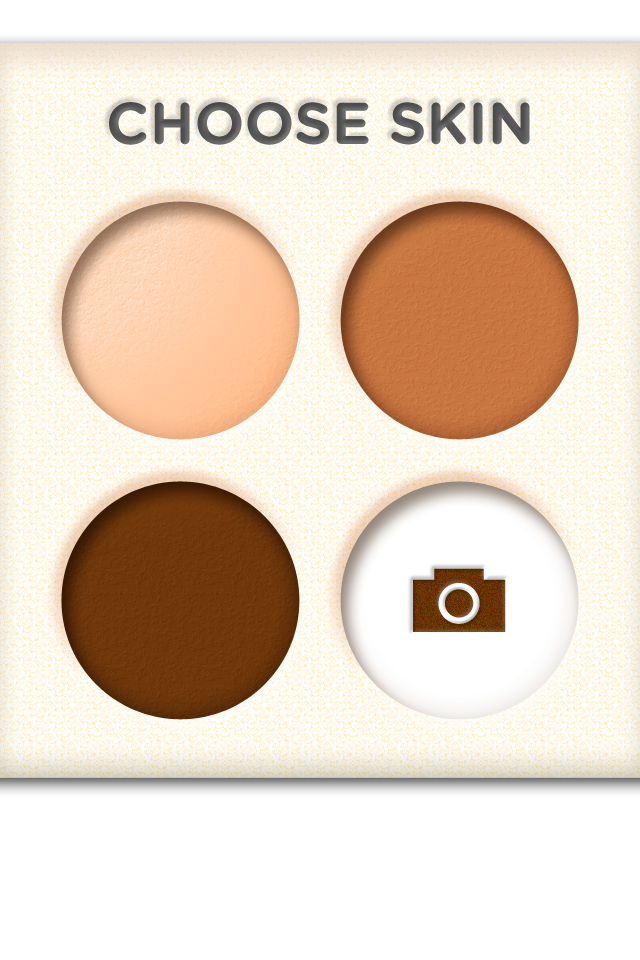
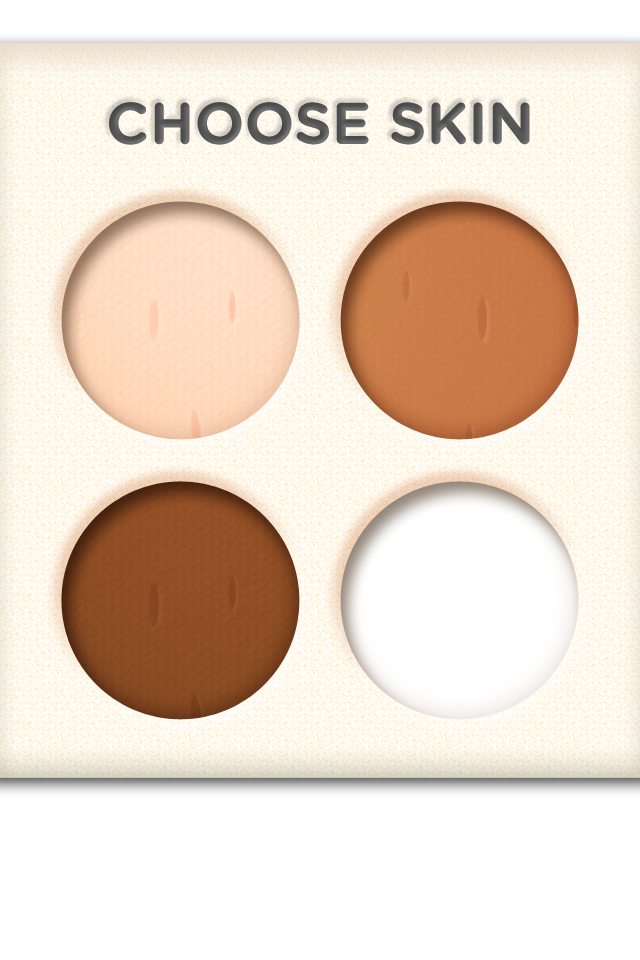
highlight skin color circles when tapped

Changed region(s): [[0.0938, 0.5, 0.4688, 0.75], [0.1875, 0.2188, 0.4688, 0.4688], [0.625, 0.5625, 0.8125, 0.6562]]

diff --git a/iscab/SkinColorPicker.m b/iscab/SkinColorPicker.m
@@ -28,7 +28,12 @@ CCUIViewWrapper *wrapper;
 
         CCSprite *pickerText = [CCSprite spriteWithFile:@"Choose_Skin.png"];
         pickerText.position = ccp(160, 240);
-        [self addChild:pickerText];        
+        [self addChild:pickerText];
+        
+        CCSprite *cameraNotTouched = [CCSprite spriteWithFile:@"camera.png"];
+        cameraNotTouched.position = ccp(228, 181);
+        [cameraNotTouched setTag:CAMERA_NOT_TOUCHED_TAG];
+        [self addChild:cameraNotTouched];
     }
     
     return self;
@@ -44,13 +49,28 @@ CCUIViewWrapper *wrapper;
     CGRect darkSkinBox    = CGRectMake(35, 125, 115, 105);
     CGRect pictureSkinBox = CGRectMake(175, 125, 115, 105);
 
+    CCSprite *circleTapped = [CCSprite spriteWithFile:@"ChooseSkin_Tap.png"];
+    [circleTapped setTag:CIRCLE_TAP];
+    
     if (CGRectContainsPoint(lightSkinBox, touchLocation)) {
+        circleTapped.position = ccp(90, 320);
+        [self addChild:circleTapped];
+        
         [app.defaults setObject:@"light" forKey:@"skinColor"];
     } else if (CGRectContainsPoint(mediumSkinBox, touchLocation)) {
+        circleTapped.position = ccp(230, 320);
+        [self addChild:circleTapped];
+        
         [app.defaults setObject:@"medium" forKey:@"skinColor"];
     } else if (CGRectContainsPoint(darkSkinBox, touchLocation)) {
+        circleTapped.position = ccp(90, 180);
+        [self addChild:circleTapped];
+        
         [app.defaults setObject:@"dark" forKey:@"skinColor"];
     } else if (CGRectContainsPoint(pictureSkinBox, touchLocation)) {
+        circleTapped.position = ccp(230, 180);
+        [self addChild:circleTapped];
+        
         if ([UIImagePickerController isSourceTypeAvailable:UIImagePickerControllerSourceTypeCamera]) {
             NSLog(@"PIX");
             UIImagePickerController *imagePicker = [[UIImagePickerController alloc] init];        
@@ -67,6 +87,8 @@ CCUIViewWrapper *wrapper;
             NSLog(@"NO CAMERA");
         }
         
+        [self removeChild:[self getChildByTag:CAMERA_NOT_TOUCHED_TAG] cleanup:YES];
+        
         CCSprite *cameraTouched = [CCSprite spriteWithFile:@"camera-Tap.png"];
         cameraTouched.position = ccp(228, 181);
         [cameraTouched setTag:CAMERA_TOUCHED_TAG];
@@ -79,6 +101,12 @@ CCUIViewWrapper *wrapper;
 
 - (void)ccTouchesEnded:(NSSet *)touches withEvent:(UIEvent *)event {
     [self removeChild:[self getChildByTag:CAMERA_TOUCHED_TAG] cleanup:YES];
+    [self removeChild:[self getChildByTag:CIRCLE_TAP] cleanup:YES];
+    
+    CCSprite *cameraNotTouched = [CCSprite spriteWithFile:@"camera.png"];
+    cameraNotTouched.position = ccp(228, 181);
+    [cameraNotTouched setTag:CAMERA_NOT_TOUCHED_TAG];
+    [self addChild:cameraNotTouched];
 }
 
 - (UIImage*)imageWithImage:(UIImage*)image scaledToSize:(CGSize)newSize;

diff --git a/iscab/SkinColorPicker.h b/iscab/SkinColorPicker.h
@@ -11,6 +11,8 @@
 #import "IScabCCLayer.h"
 
 #define CAMERA_TOUCHED_TAG 44
+#define CAMERA_NOT_TOUCHED_TAG 55
+#define CIRCLE_TAP 66
 
 @interface SkinColorPicker : IScabCCLayer <UINavigationControllerDelegate, UIImagePickerControllerDelegate> {
 }
